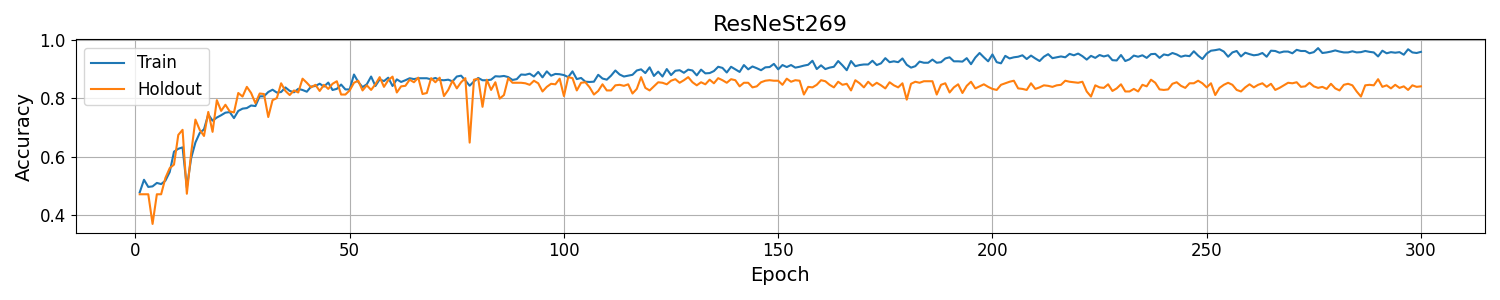
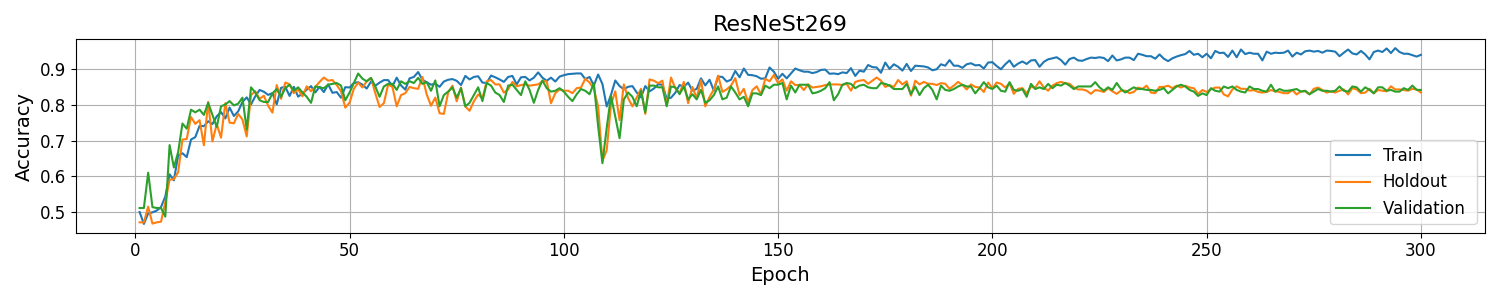
Fixing Holdout Testing method

Changed region(s): [[0.0307, 0.12, 1.0, 0.75], [0.8893, 0.57, 0.9813, 0.63]]

diff --git a/holdout_evaluation.py b/holdout_evaluation.py
@@ -62,6 +62,8 @@ for line in output_file:
             key = "Predict_Train" + "_" + model + "_" + dataset
         elif "holdout_test_loader" in line:
             key = "Predict_test_loader" + "_" + model + "_" + dataset
+        elif "val_loader" in line:
+            key = "Predict_val_loader" + "_" + model + "_" + dataset
 
         if key not in combination_list:
             combination_list.append(key)
@@ -119,6 +121,8 @@ for line in target_file:
             key = "Target_Train" + "_" + model + "_" + dataset
         elif "holdout_test_loader" in line:
             key = "Target_test_loader" + "_" + model + "_" + dataset
+        elif "val_loader" in line:
+            key = "Target_val_loader" + "_" + model + "_" + dataset
 
         if key not in combination_list:
             combination_list.append(key)
@@ -146,7 +150,7 @@ highest_acc_val = 0
 best_epoch_val = 0
 
 for model in range(len(Model_label)):
-    accuracy_list = np.zeros((2,train_epoch))
+    accuracy_list = np.zeros((3,train_epoch))
     for epoch in range(train_epoch):
         # Train
         target_list = target_dict["Target_Train" + "_" + Model_label[model].lower() + "_" + Dataset_label][epoch]
@@ -165,10 +169,18 @@ for model in range(len(Model_label)):
         classification_metrics = classification_report(target_list, predict_list,target_names = ['drilling','engine_idling'],output_dict= True)
         accuracy = classification_metrics['accuracy']
         accuracy_list[1,epoch] = accuracy
-        if highest_acc_val < accuracy:
-                highest_acc_val = accuracy
-                best_epoch_val = epoch
 
+        # Validation
+        target_list = target_dict["Target_val_loader" + "_" + Model_label[model].lower() + "_" + Dataset_label][epoch]
+        predict_list = prediction_dict["Predict_val_loader" + "_" + Model_label[model].lower() + "_" + Dataset_label][epoch]
+        target_list = np.array(target_list, dtype='int')
+        predict_list = np.array(predict_list, dtype='int')
+        classification_metrics = classification_report(target_list, predict_list,target_names = ['drilling','engine_idling'],output_dict= True)
+        accuracy = classification_metrics['accuracy']
+        accuracy_list[2,epoch] = accuracy
+        if highest_acc_val < accuracy:
+            highest_acc_val = accuracy
+            best_epoch_val = epoch
 
     highest_acc_dict[Model_label[model].lower() + "_" + Dataset_label] = epoch
 
@@ -182,6 +194,7 @@ for model in range(len(Model_label)):
     acc_list = accuracy_dict[Model_label[model].lower() + "_" + Dataset_label]
     plt.plot(epoch_label, acc_list[0], label = "Train")
     plt.plot(epoch_label, acc_list[1], label = "Holdout")
+    plt.plot(epoch_label, acc_list[2], label = "Validation ")
     plt.xlabel('Epoch', fontsize=14)
     plt.ylabel('Accuracy', fontsize=14)
     plt.title(Model_label[model], fontsize=16)
@@ -226,6 +239,8 @@ for model in range(len(Model_label)):
     print("F1:", f1)
 
 # PR Curve and ROC Curve
+# plot the pr curve
+plt.figure(figsize=(4,4))
 for model in range(len(Model_label)):
     best_epoch = highest_acc_dict[Model_label[model].lower() + "_" + Dataset_label]
 
@@ -235,36 +250,45 @@ for model in range(len(Model_label)):
     score = np.array(score, dtype='float')
     target = np.array(target, dtype='int')
 
-    # plot the pr curve
     precision, recall, thresholds = precision_recall_curve(target, score)
     pr_score = auc(recall, precision)
-    plt.figure(figsize=(4,4))
-    plt.plot(recall,precision, label = "AUPRC = {:.4f}".format(pr_score))
-    plt.plot([(0,0),(1,1)],"k--")
-    plt.title(Model_label[model], fontsize=14)
-    plt.legend(loc = 'best')
-    plt.xlabel('Recall', fontsize=12)
-    plt.ylabel('Precision', fontsize=12)
-    plt.xticks(fontsize=12)
-    plt.yticks(fontsize=12)
-    plt.grid(True)
-    plt.tight_layout()
-    plt.savefig("./PR/Holdout_"+Model_label[model]+"_"+Dataset_type+".png")
-    plt.clf()
+    
+    plt.plot(recall,precision, label = Model_label[model] + " AUPRC = {:.4f}".format(pr_score))
+plt.plot([(0,0),(1,1)],"k--")
+plt.title("PR-Curve", fontsize=14)
+plt.legend(loc = 'best')
+plt.xlabel('Recall', fontsize=12)
+plt.ylabel('Precision', fontsize=12)
+plt.xticks(fontsize=12)
+plt.yticks(fontsize=12)
+plt.grid(True)
+plt.tight_layout()
+plt.savefig("./PR/Holdout.png")
+plt.clf()
 
-    # plot the roc curve
+ # plot the roc curve
+plt.figure(figsize=(4,4))
+for model in range(len(Model_label)):
+    best_epoch = highest_acc_dict[Model_label[model].lower() + "_" + Dataset_label]
+
+    score = score_dict["Score_test_loader" + "_" + Model_label[model].lower() + "_" + Dataset_label][best_epoch]
+    target = target_dict["Target_test_loader" + "_" + Model_label[model].lower() + "_" + Dataset_label][best_epoch]
+
+    score = np.array(score, dtype='float')
+    target = np.array(target, dtype='int')
+    
     roc_score = roc_auc_score(target, score)
     fpr, tpr, _ = roc_curve(target, score)
-    plt.figure(figsize=(4,4))
-    plt.plot(fpr, tpr, label = "AUROC = {:.4f}".format(roc_score))
-    plt.title(Model_label[model], fontsize=14)
-    plt.plot([(0,0),(1,1)],"r-")
-    plt.legend(loc = 'best')
-    plt.xlabel('False Positive Rate', fontsize=12)
-    plt.ylabel('True Positive Rate', fontsize=12)
-    plt.xticks(fontsize=12)
-    plt.yticks(fontsize=12)
-    plt.grid(True)
-    plt.tight_layout()
-    plt.savefig("./ROC/Holdout_ROC+" + Model_label[model] + "_" + Dataset_type + ".png")
-    plt.clf()
+
+    plt.plot(fpr, tpr, label = Model_label[model] + " AUROC = {:.4f}".format(roc_score))
+plt.title("ROC-Curve", fontsize=14)
+plt.plot([(0,0),(1,1)],"r-")
+plt.legend(loc = 'best')
+plt.xlabel('False Positive Rate', fontsize=12)
+plt.ylabel('True Positive Rate', fontsize=12)
+plt.xticks(fontsize=12)
+plt.yticks(fontsize=12)
+plt.grid(True)
+plt.tight_layout()
+plt.savefig("./ROC/Holdout_ROC.png")
+plt.clf()

diff --git a/ResNeStGPU.py b/ResNeStGPU.py
@@ -245,20 +245,32 @@ def main_worker(gpu, ngpus_per_node, args):
                                              transform=transform_train, train=True, holdout=True, download=True)
         test_valset = encoding.datasets.get_dataset(args.dataset, root=root,
                                            transform=transform_val, train=False, holdout=True, download=True)
-
+        valset = encoding.datasets.get_dataset(args.dataset, root=root,
+                                           transform=transform_val, train=False, cv_test=False, hold_test=False, download=True)
+        
+        # Training set Fold [1,2,3,4,5]
         train_sampler = torch.utils.data.distributed.DistributedSampler(trainset)
         train_loader = torch.utils.data.DataLoader(
             trainset, batch_size=args.batch_size, shuffle=False,
             num_workers=args.workers, pin_memory=True,
             sampler=train_sampler)
-
+        
+        # Holdout testing set Fold [8, 9, 10]
         test_sampler = torch.utils.data.distributed.DistributedSampler(test_valset, shuffle=False)
         test_loader = torch.utils.data.DataLoader(
             test_valset, batch_size=args.test_batch_size, shuffle=False,
             num_workers=args.workers, pin_memory=True,
             sampler=test_sampler) 
         
-        validation_loader = {"holdout_test_loader":test_loader}
+        # Validation set Fold [6, 7]
+        val_sampler = torch.utils.data.distributed.DistributedSampler(valset, shuffle=False)
+        val_loader = torch.utils.data.DataLoader(
+            valset, batch_size=args.test_batch_size, shuffle=False,
+            num_workers=args.workers, pin_memory=True,
+            sampler=val_sampler)
+        
+        validation_loader = {"holdout_test_loader":test_loader,
+                            "val_loader":val_loader}
     
     # init the model
     model_kwargs = {}
@@ -545,6 +557,7 @@ def main_worker(gpu, ngpus_per_node, args):
             acclist_train_set.append(acclist_train)
             test(epoch, "holdout_test_loader")
             acclist_val_set.append(acclist_val)
+            validation(epoch, "val_loader")
             
         elapsed = time.time() - tic
         if args.gpu == 0:

diff --git a/ResNeSt_Data_Preparation.py b/ResNeSt_Data_Preparation.py
@@ -57,12 +57,16 @@ def DataPrepare(CLASS1_LABELID, CLASS2_LABELID):
         
         os.makedirs(dataset_type_dir +"/urbansound8k/holdoutTrain")
         os.makedirs(dataset_type_dir +"/urbansound8k/holdoutTest")
+        os.makedirs(dataset_type_dir +"/urbansound8k/val")
         os.makedirs(dataset_type_dir +"/urbansound8k/holdoutTrain/" + class_label[CLASS1_LABELID])
         os.makedirs(dataset_type_dir +"/urbansound8k/holdoutTest/" + class_label[CLASS1_LABELID])
+        os.makedirs(dataset_type_dir +"/urbansound8k/val/" + class_label[CLASS1_LABELID])
         os.makedirs(dataset_type_dir +"/urbansound8k/holdoutTrain/" + class_label[CLASS2_LABELID])
         os.makedirs(dataset_type_dir +"/urbansound8k/holdoutTest/" + class_label[CLASS2_LABELID])
+        os.makedirs(dataset_type_dir +"/urbansound8k/val/" + class_label[CLASS2_LABELID])
         HOLDOUT_TRAIN_DIR = dataset_type_dir +"/urbansound8k/holdoutTrain"
         HOLDOUT_TEST_DIR = dataset_type_dir +"/urbansound8k/holdoutTest"
+        HOLDOUT_VAL_DIR = dataset_type_dir +"/urbansound8k/val"
         
         for iteration in range(1,6):
             ITER_DIR = dataset_type_dir + "/round" + str(iteration) + "/urbansound8k"
@@ -116,6 +120,14 @@ def DataPrepare(CLASS1_LABELID, CLASS2_LABELID):
                                 label = class_label[class_id]
                                 copyfile(DOWNLOAD_DIR + '/fold' + str(fold) + "/" + file,
                                          HOLDOUT_TRAIN_DIR + "/" + label + "/" + file)
+                if fold <8 and fold >5 and iteration == 5:
+                    for file in fileList:
+                        if not file.startswith('.'):
+                            class_id = int(file.split("-")[1])
+                            if class_id == CLASS1_LABELID or class_id == CLASS2_LABELID:
+                                label = class_label[class_id]
+                                copyfile(DOWNLOAD_DIR + '/fold' + str(fold) + "/" + file,
+                                         HOLDOUT_VAL_DIR + "/" + label + "/" + file)
                 if fold > 7 and iteration == 5:
                     for file in fileList:
                         if not file.startswith('.'):

diff --git a/Evaluation.py b/Evaluation.py
@@ -59,6 +59,7 @@ for line in output_file:
             key = "Predict_test_loader" + "_" + model + "_" + dataset + "_round" + cvRound
         elif "val_loader" in line:
             key = "Predict_val_loader" + "_" + model + "_" + dataset + "_round" + cvRound
+            
         if key not in combination_list:
             combination_list.append(key)
             prediction_dict[key] = []
@@ -122,6 +123,7 @@ for line in target_file:
             key = "Target_test_loader" + "_" + model + "_" + dataset + "_round" + cvRound
         elif "val_loader" in line:
             key = "Target_val_loader" + "_" + model + "_" + dataset + "_round" + cvRound
+            
         if key not in combination_list:
             combination_list.append(key)
             target_dict[key] = []

diff --git a/ResNeSt/encoding/datasets/imagenet.py b/ResNeSt/encoding/datasets/imagenet.py
@@ -14,7 +14,7 @@ warnings.filterwarnings("ignore", "(Possibly )?corrupt EXIF data", UserWarning)
 class ImageNetDataset(datasets.ImageFolder):
     BASE_DIR = "urbansound8k"
     def __init__(self, root=os.path.expanduser('./encoding/data'), transform=None,
-                 target_transform=None, train=True, cv_test = False, holdout=False,  **kwargs):
+                 target_transform=None, train=True, cv_test = False, holdout=False, **kwargs):
         if train and not holdout:
             split = 'train'
         elif train and holdout:
